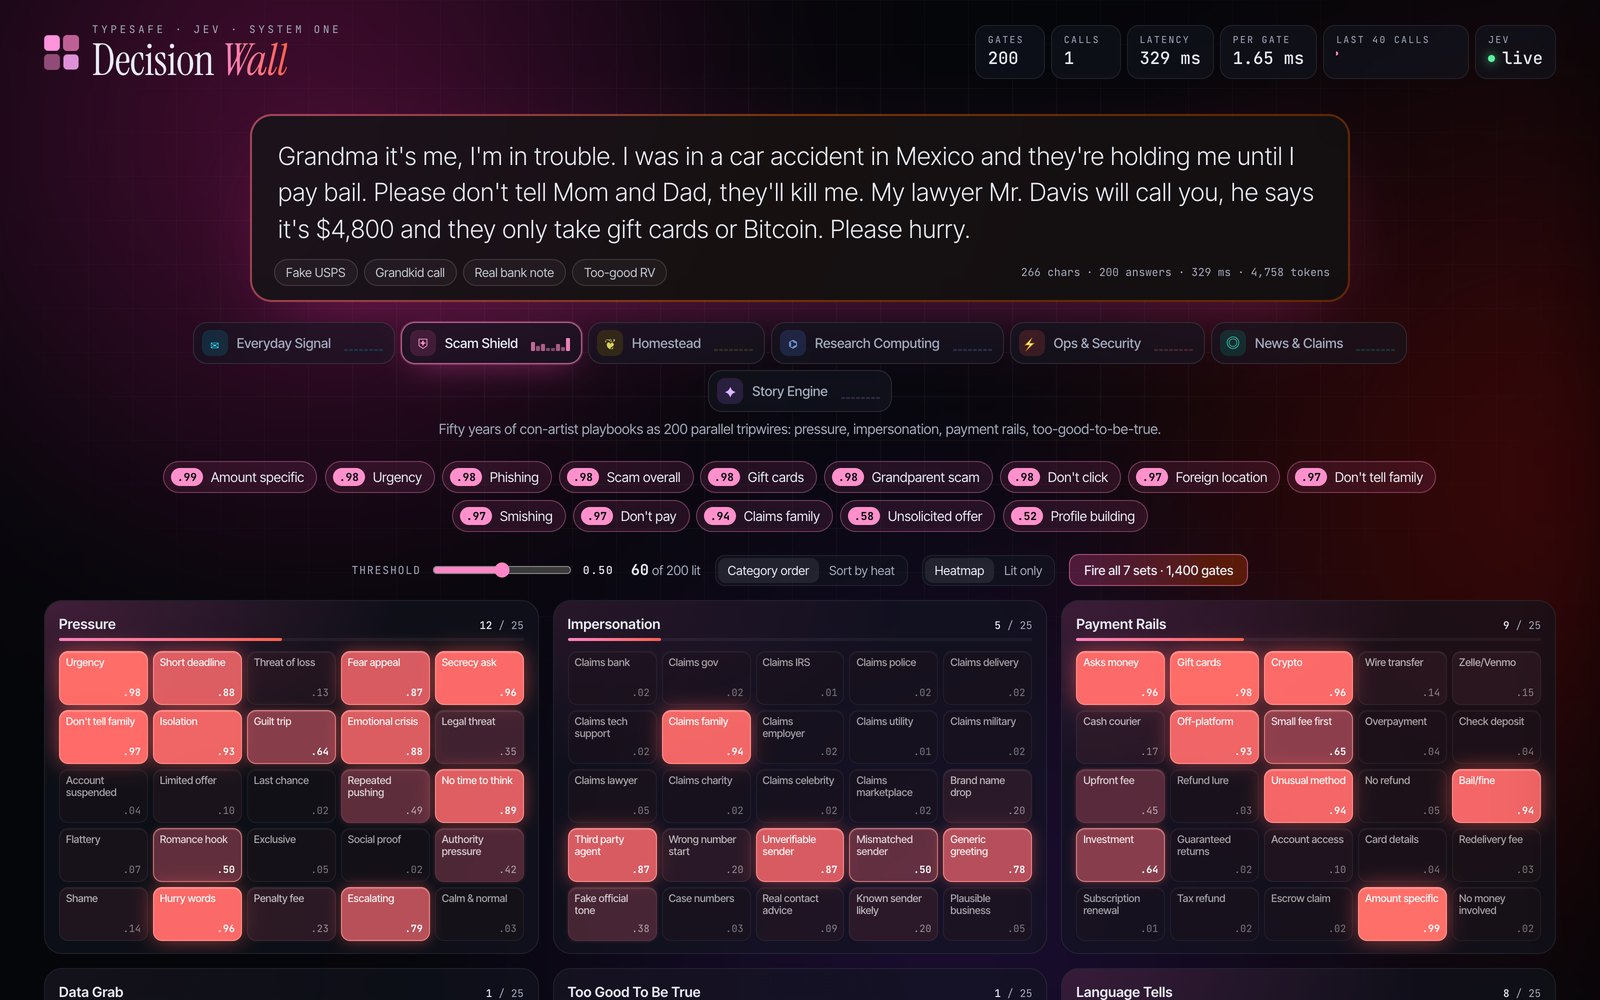
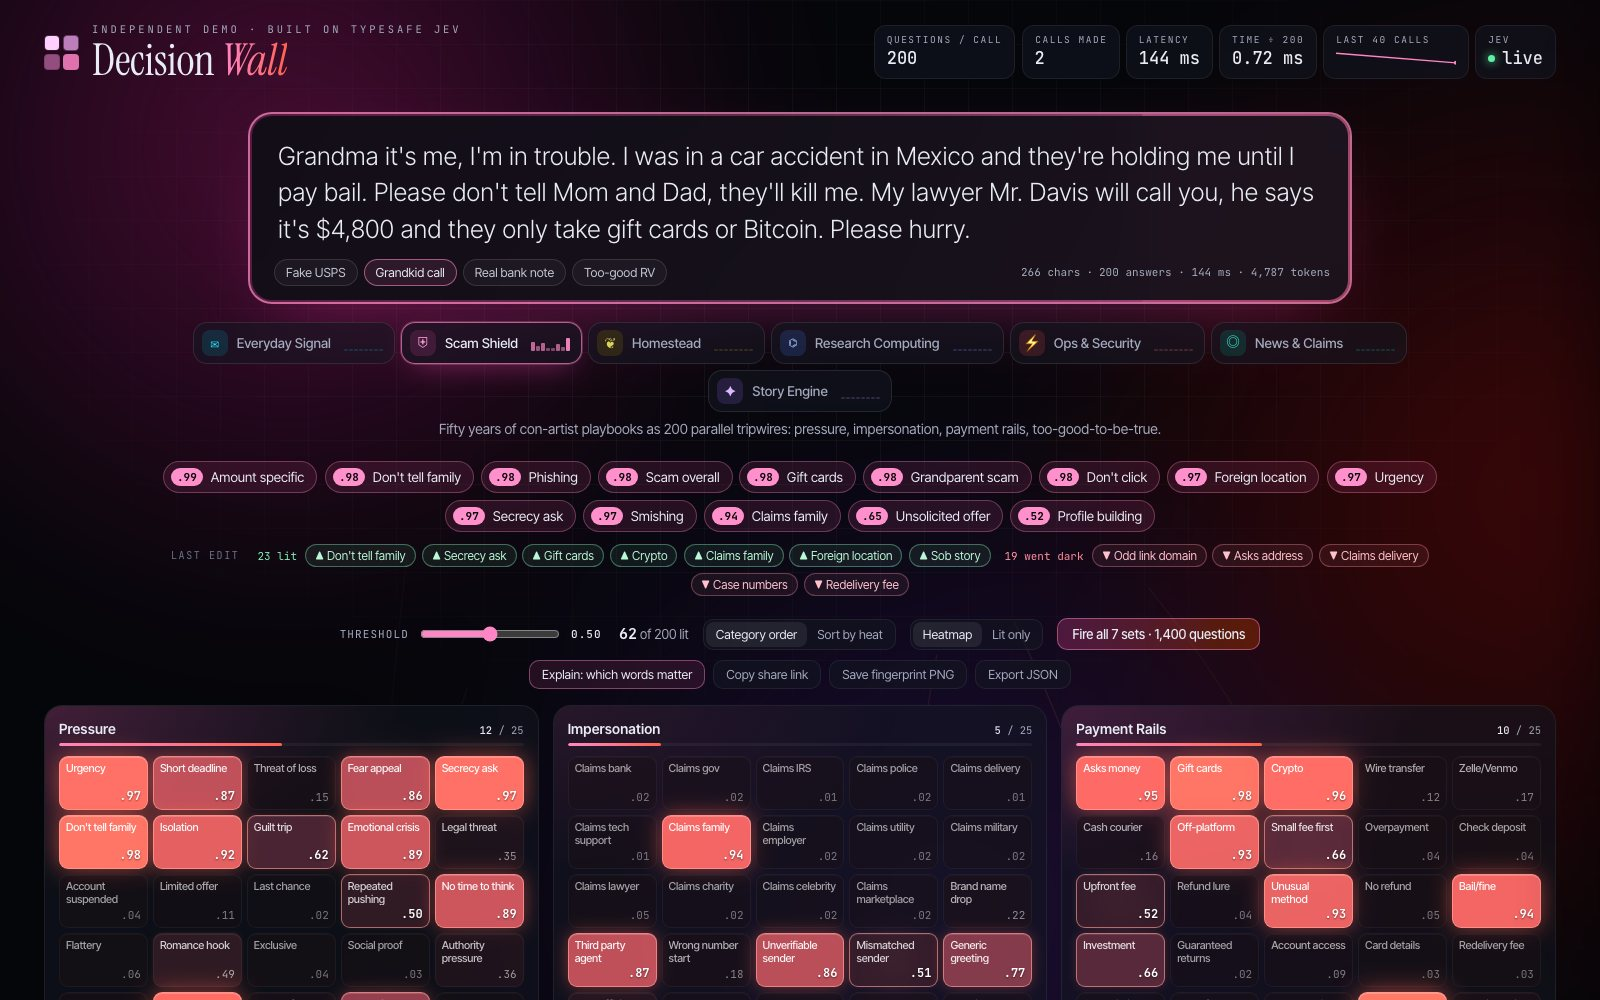
v1.2.1: independent-project framing; idea first; not-affiliated line up top; retaken screenshots

diff --git a/docs/index.html b/docs/index.html
@@ -3,13 +3,13 @@
 <head>
 <meta charset="utf-8">
 <meta name="viewport" content="width=device-width, initial-scale=1">
-<title>Decision Wall: 200 questions, one call, a quarter second</title>
+<title>Decision Wall · ask 200 small questions at once · an independent Jev demo</title>
 <meta name="description" content="Type anything. 200 yes/no judgments light up as a live heatmap, answered in one parallel call to TypeSafe Jev. Open source, zero dependencies, bring your own key.">
 <link rel="canonical" href="https://charles-forsyth.github.io/jev-decision-wall/">
 <meta property="og:type" content="website">
 <meta property="og:url" content="https://charles-forsyth.github.io/jev-decision-wall/">
-<meta property="og:title" content="Decision Wall: 200 questions, one call, a quarter second">
-<meta property="og:description" content="A live heatmap of 200 parallel AI judgments from TypeSafe Jev. Open source, bring your own key.">
+<meta property="og:title" content="Decision Wall: ask 200 small questions at once">
+<meta property="og:description" content="An independent, open-source experiment: ask a model like TypeSafe Jev 200 small yes/no questions at once and let your code decide. Not affiliated with TypeSafe.">
 <meta property="og:image" content="https://charles-forsyth.github.io/jev-decision-wall/media/og.jpg">
 <meta name="twitter:card" content="summary_large_image">
 <meta name="twitter:image" content="https://charles-forsyth.github.io/jev-decision-wall/media/og.jpg">
@@ -28,9 +28,10 @@
 
 <main id="top">
   <section class="hero">
-    <p class="kicker">Open source · TypeSafe Jev · System One</p>
-    <h1>200 questions.<br><em>One call.</em> About a quarter second.</h1>
-    <p class="lede">Type anything. Two hundred yes/no judgments light up as a live heatmap, all answered in a single parallel call to Jev. It's a hands-on way to <i>feel</i> what a System One model does.</p>
+    <p class="kicker">An independent, open-source experiment · built on TypeSafe Jev</p>
+    <h1>Don't ask one big question.<br><em>Ask 200 small ones</em> at once.</h1>
+    <p class="lede">A way of thinking about models like Jev: break a judgment into many small yes/no questions, ask them all at once, and let your code decide what counts. Decision Wall makes the idea visible. Type anything and 200 answers light up as a heatmap, from one parallel call that takes about a quarter second.</p>
+    <p class="disclaim">Not affiliated with or endorsed by TypeSafe. Jev is their model; this is my experiment with it.</p>
     <div class="cta"><a class="btn" href="app/">Try it now, no key</a><a class="btn ghost" href="#start">Run it locally</a><a class="btn ghost" href="https://github.com/charles-forsyth/jev-decision-wall">Star on GitHub</a></div>
     <dl class="stats">
       <div><dt>questions per call</dt><dd data-count="200">200</dd></div>
@@ -96,7 +97,7 @@ node server.js        <span class="c"># → http://127.0.0.1:8770</span></code><
 
 <footer class="foot">
   <span>Built by <a href="https://charles-forsyth.github.io/">Charles Forsyth</a> · MIT license</span>
-  <span>Not affiliated with TypeSafe. Jev is their model.</span>
+  <span>An independent project. Not affiliated with or endorsed by TypeSafe; Jev and TypeSafe are their trademarks.</span>
 </footer>
 </body>
 </html>

diff --git a/docs/app/index.html b/docs/app/index.html
@@ -3,9 +3,9 @@
 <head>
 <meta charset="utf-8">
 <meta name="viewport" content="width=device-width, initial-scale=1">
-<title>Decision Wall · 200 questions, one call · Jev</title>
-<meta name="description" content="Type anything. 200 yes/no judgments light up in about 200 ms, all from one parallel call to TypeSafe Jev.">
-<meta property="og:title" content="Jev Decision Wall">
+<title>Decision Wall · ask 200 small questions at once · an independent Jev demo</title>
+<meta name="description" content="An independent, open-source demo of one way to use models like TypeSafe Jev: ask 200 small yes/no questions at once and let your code decide. Not affiliated with TypeSafe.">
+<meta property="og:title" content="Decision Wall: ask 200 small questions at once">
 <meta property="og:description" content="200 questions, one call, ~250 ms. A live heatmap of parallel AI judgments, with an Explain view that shows which words drive each answer.">
 <meta name="theme-color" content="#05060a">
 <link rel="icon" href="favicon.svg" type="image/svg+xml">
@@ -23,7 +23,7 @@
   <div class="brand">
     <div class="mark" aria-hidden="true"><span></span><span></span><span></span><span></span></div>
     <div>
-      <div class="kicker">TypeSafe · Jev · System One</div>
+      <div class="kicker">Independent demo · built on TypeSafe Jev</div>
       <h1>Decision <em>Wall</em></h1>
     </div>
   </div>
@@ -85,7 +85,8 @@
 
   <footer class="foot">
     <span class="notice" id="notice">Text you type is sent to the TypeSafe API using the key configured on this server. Use made-up or public text.</span>
-    <span>Every cell is a separate yes/no question (a Jev <em>noul</em>) asked about your text. All 200 go out in one request and come back together, each a calibrated probability.</span>
+    <span>Every cell is a separate yes/no question (a Jev <em>noul</em>) asked about your text. All 200 go out in one request and come back together, each a probability.</span>
+    <span>An independent open-source project by <a href="https://charles-forsyth.github.io/">Charles Forsyth</a>. Not affiliated with or endorsed by TypeSafe; Jev is their model.</span>
     <span id="usage"></span>
   </footer>
 </main>

diff --git a/public/index.html b/public/index.html
@@ -3,9 +3,9 @@
 <head>
 <meta charset="utf-8">
 <meta name="viewport" content="width=device-width, initial-scale=1">
-<title>Decision Wall · 200 questions, one call · Jev</title>
-<meta name="description" content="Type anything. 200 yes/no judgments light up in about 200 ms, all from one parallel call to TypeSafe Jev.">
-<meta property="og:title" content="Jev Decision Wall">
+<title>Decision Wall · ask 200 small questions at once · an independent Jev demo</title>
+<meta name="description" content="An independent, open-source demo of one way to use models like TypeSafe Jev: ask 200 small yes/no questions at once and let your code decide. Not affiliated with TypeSafe.">
+<meta property="og:title" content="Decision Wall: ask 200 small questions at once">
 <meta property="og:description" content="200 questions, one call, ~250 ms. A live heatmap of parallel AI judgments, with an Explain view that shows which words drive each answer.">
 <meta name="theme-color" content="#05060a">
 <link rel="icon" href="favicon.svg" type="image/svg+xml">
@@ -23,7 +23,7 @@
   <div class="brand">
     <div class="mark" aria-hidden="true"><span></span><span></span><span></span><span></span></div>
     <div>
-      <div class="kicker">TypeSafe · Jev · System One</div>
+      <div class="kicker">Independent demo · built on TypeSafe Jev</div>
       <h1>Decision <em>Wall</em></h1>
     </div>
   </div>
@@ -85,7 +85,8 @@
 
   <footer class="foot">
     <span class="notice" id="notice">Text you type is sent to the TypeSafe API using the key configured on this server. Use made-up or public text.</span>
-    <span>Every cell is a separate yes/no question (a Jev <em>noul</em>) asked about your text. All 200 go out in one request and come back together, each a calibrated probability.</span>
+    <span>Every cell is a separate yes/no question (a Jev <em>noul</em>) asked about your text. All 200 go out in one request and come back together, each a probability.</span>
+    <span>An independent open-source project by <a href="https://charles-forsyth.github.io/">Charles Forsyth</a>. Not affiliated with or endorsed by TypeSafe; Jev is their model.</span>
     <span id="usage"></span>
   </footer>
 </main>

diff --git a/docs/site.css b/docs/site.css
@@ -50,3 +50,5 @@ pre code { background:none; padding:0 } pre .c { color:#6b728a }
 .foot { display:flex; justify-content:space-between; gap:16px; flex-wrap:wrap; padding:28px clamp(16px,4vw,48px) 40px; color:var(--mute); font-size:14px; border-top:1px solid var(--line); margin-top:40px }
 @media (max-width:820px){ .stats{grid-template-columns:1fr 1fr} .grid3,.shots{grid-template-columns:1fr} .nav nav a:not(.gh){display:none} }
 @media (prefers-reduced-motion:reduce){ .aurora i{animation:none} }
+
+.hero .disclaim { font-size: 13px; color: var(--mute, #9aa1b5); margin: -6px 0 22px; }

diff --git a/README.md b/README.md
@@ -2,9 +2,11 @@
 
 # Decision Wall
 
-### 200 questions per call. About a quarter second.
+### Don't ask one big question. Ask 200 small ones at once.
 
-Type anything. Two hundred yes/no judgments light up as a live heatmap, all answered in **one parallel call** to [TypeSafe Jev](https://typesafe.ai).
+An independent, open-source experiment in a way of using models like [TypeSafe's Jev](https://typesafe.ai): break a judgment into many small yes/no questions, ask them all in **one parallel call** (about a quarter second), and let your code decide what counts.
+
+<sub>Not affiliated with or endorsed by TypeSafe. Jev is their model; Decision Wall is my experiment with it.</sub>
 
 [![CI](https://github.com/charles-forsyth/jev-decision-wall/actions/workflows/ci.yml/badge.svg?branch=main)](https://github.com/charles-forsyth/jev-decision-wall/actions/workflows/ci.yml)
 ![Node](https://img.shields.io/badge/node-%E2%89%A520-339933?logo=node.js&logoColor=white)
@@ -21,7 +23,9 @@ Type anything. Two hundred yes/no judgments light up as a live heatmap, all answ
 
 ## Why this exists
 
-Most AI models write. **Jev answers.** It's a "System One" model: give it some text and a list of questions, and it returns a calibrated probability for each one. No prose, no reasoning chains, just typed answers your code can use.
+The idea: when you need a judgment about some text (is this a scam? does this ticket need a human? is this claim checkable?), don't ask a model one big open question. Ask many small, concrete ones, get a probability for each, and let ordinary code combine them. You can see every piece of evidence, change the rules without re-asking, and test the questions one by one.
+
+That only works if asking many questions is cheap and fast, which is what TypeSafe's Jev is built for. Most AI models write. **Jev answers.** It's a "System One" model: give it some text and a list of questions, and it returns a calibrated probability for each one. No prose, no reasoning chains, just typed answers your code can use.
 
 The surprising part is **width**. Asking 200 questions about one text costs almost the same time as asking one:
 

diff --git a/CHANGELOG.md b/CHANGELOG.md
@@ -1,5 +1,11 @@
 # Changelog
 
+## 1.2.1 - 2026-11-01
+Clearer about what this is: an independent experiment in a way of using models like Jev, not a TypeSafe product.
+- App header now reads "Independent demo · built on TypeSafe Jev" (was "TypeSafe · Jev · System One"); not-affiliated line added to the app footer.
+- README, showcase page and social card lead with the idea (ask many small questions at once, let code decide) and put the not-affiliated line up top.
+- Screenshots and social card retaken with the new header.
+
 ## 1.2.0 - 2026-11-01
 The features no other Jev demo has (from the uniqueness review panel).
 - **Explain: which words matter.** Leaves each sentence out in turn and re-asks all 200 questions, every version in parallel. The text lights up green or red for the question you pick, and the question drawer lists what drives it.
